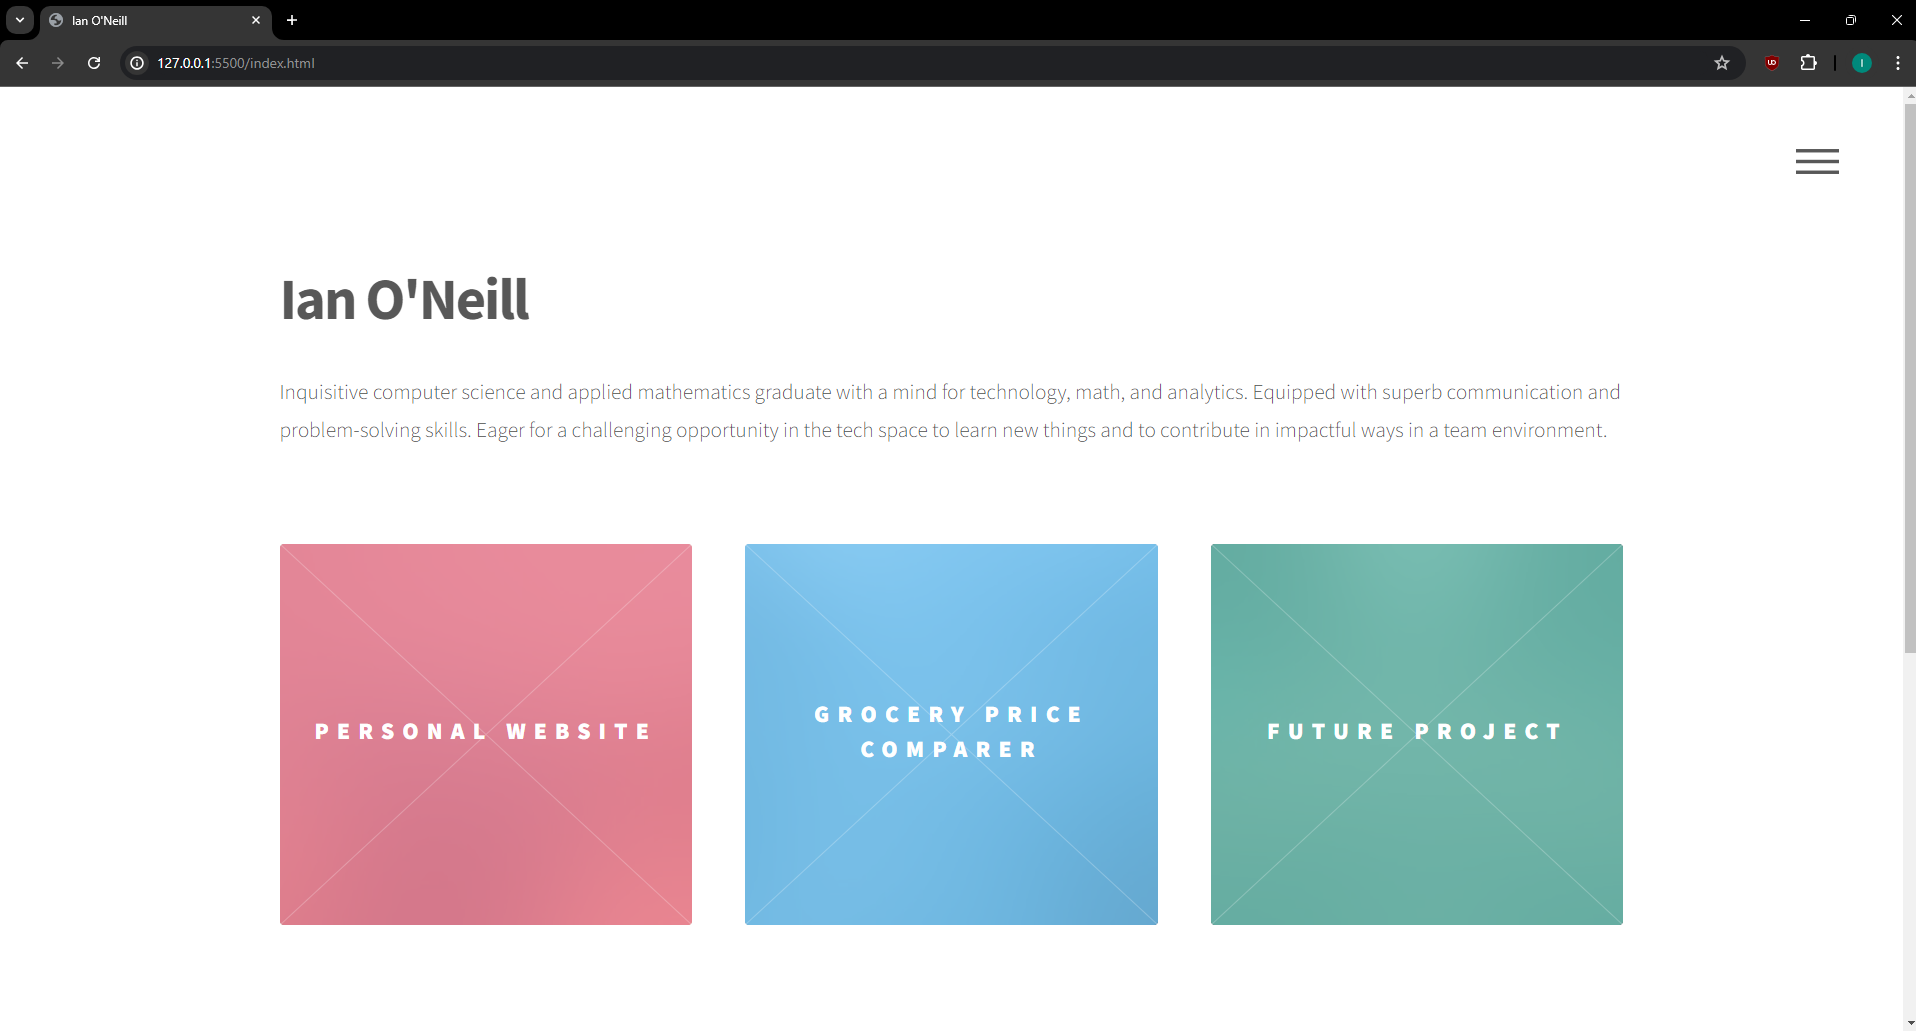
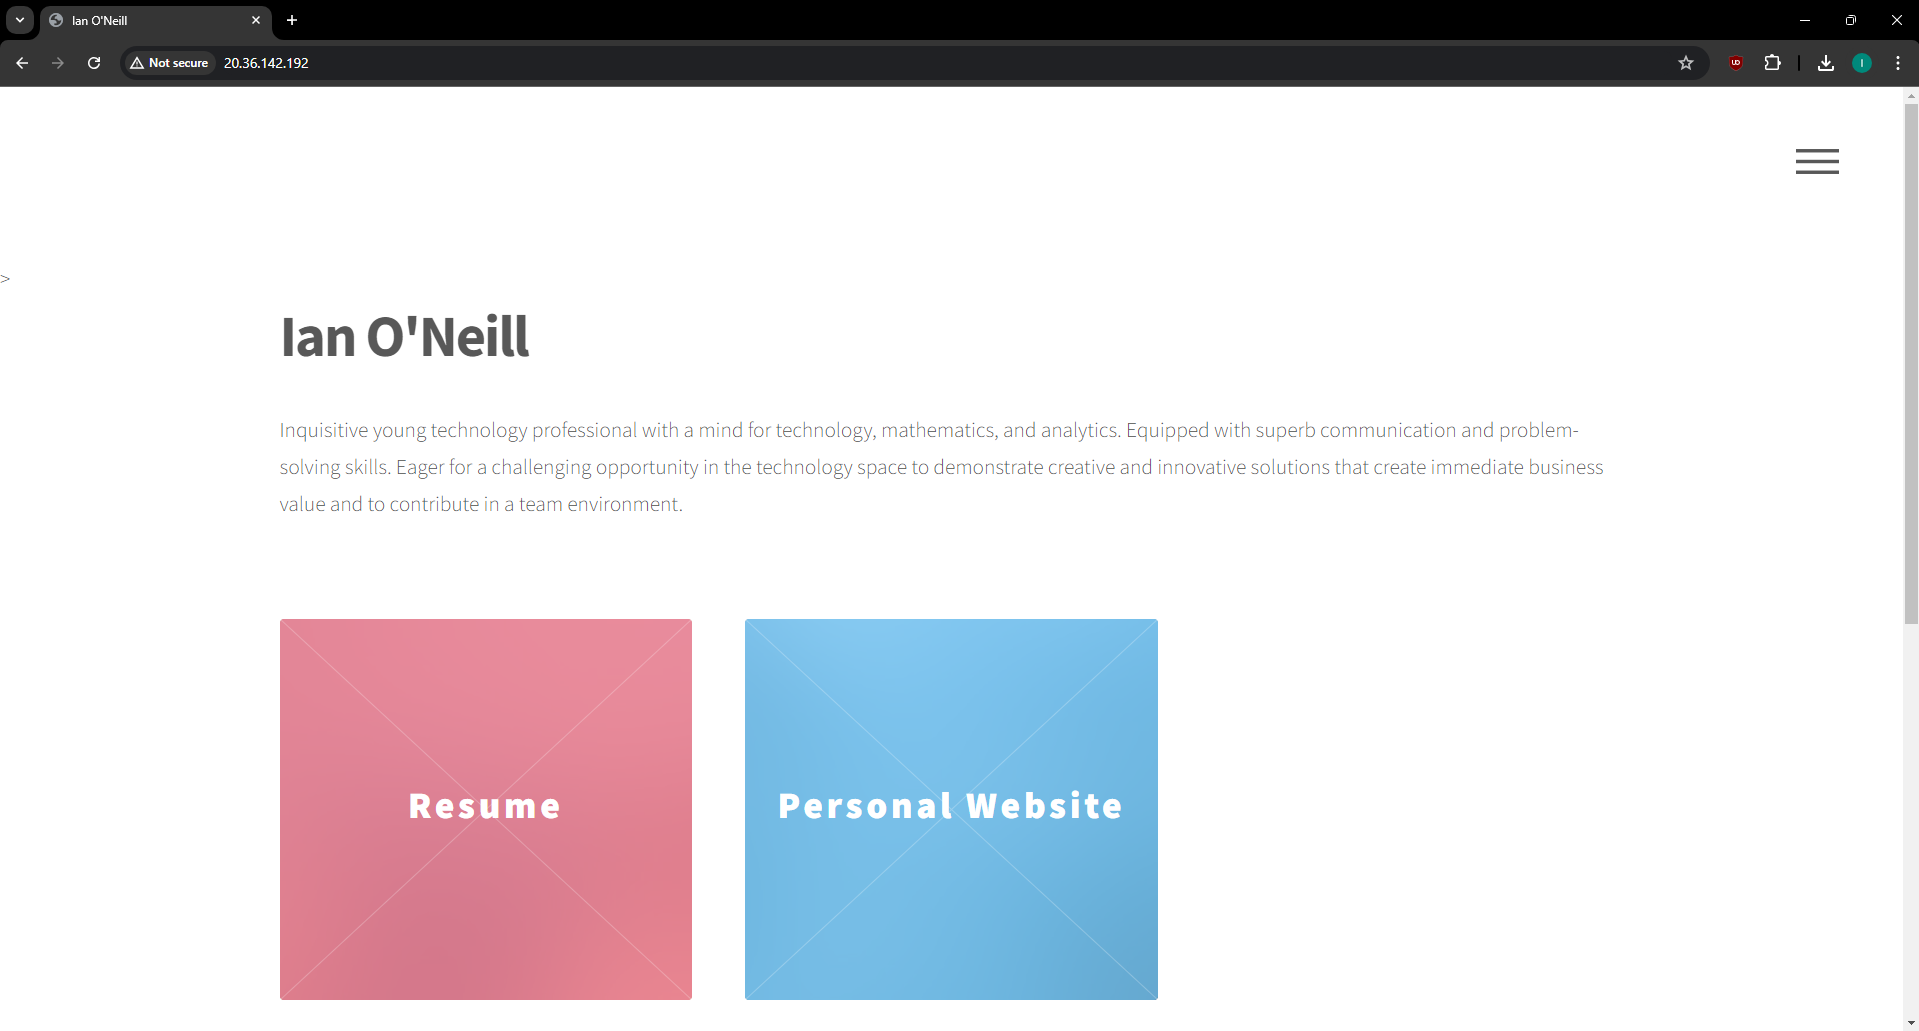
updated readme and site page

diff --git a/personal_site.html b/personal_site.html
@@ -49,11 +49,18 @@
 					<div id="main">
 						<div class="inner">
 							<h1>Personal Website</h1>
-							<p><a href="index.html" target="_blank">Project</a> | <a href="https://github.com/ion3791/portfoliov2" target="_blank">Repository</a></p>
+							<h3><a href="index.html" target="_blank">Project</a> | <a href="https://github.com/ion3791/portfoliov2" target="_blank">Repository</a></h3>
 							<span class="image main"><img src="images/site_img.png" alt="" /></span>
 							<p>
-								This is the website you're on now! This project showcases capabilities with HTML, CSS, JavaScript, as well as deploying the website on a server hosted on 
-								[insert cloud provider].
+								This is the website you're on now! This project began by developing the website, utilizing technologies such as HTML, CSS, and JavaScript to create a 
+								user-friendly, appealing, and responsive website for visitors to interact with. After that, the website needed to be deployed. This involved provisioning 
+								an appropriate VM on Microsoft Azure, installing and configuring Apache to serve the site, obtaining a SSL certificate to enable HTTPS, acquiring a domain, 
+								and configuring the DNS record to point the domain to my server. I also utilized Azure security groups to restrict traffic, as well as running Lynis to audit 
+								the security of the system and make appropriate adjustments to improve the security of the server.
+							</p>
+							<p>
+								However, this is a project that will never truly be done! As my portfolio expands and my career grows, so to will the site. Maintaining and expanding the site 
+								to incorporate changes will be a perpetual task to ensure it stays up to date.
 							</p>
 						</div>
 					</div>

diff --git a/README.md b/README.md
@@ -1,2 +1,14 @@
 # My Portfolio Website
-This is my portfolio website, based off the template Phantom by HTML5UP
+
+This is my portfolio website, based off the template Phantom by HTML5UP.
+
+The site can currently be viewed at <www.ioneill.com>. It showcases my resume, contact information, as well as various projects that demonstrate a variety of technical abilities.
+
+Creating and deploying the site demonstrates proficiency in the following areas:
+
+- HTML
+- CSS
+- JavaScript
+- Microsoft Azure
+- Linux
+- Apache
